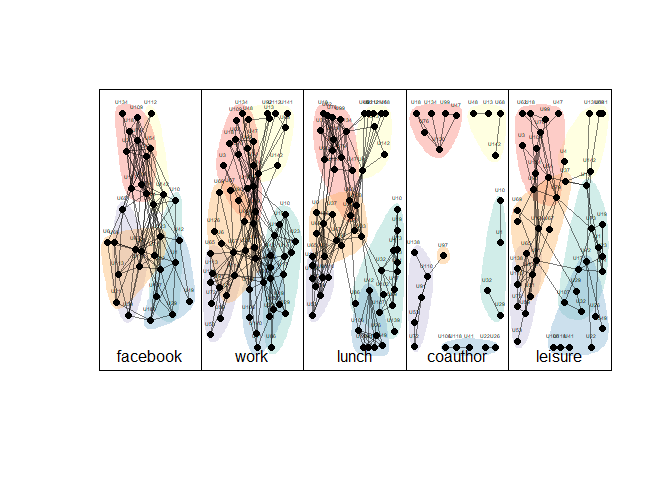
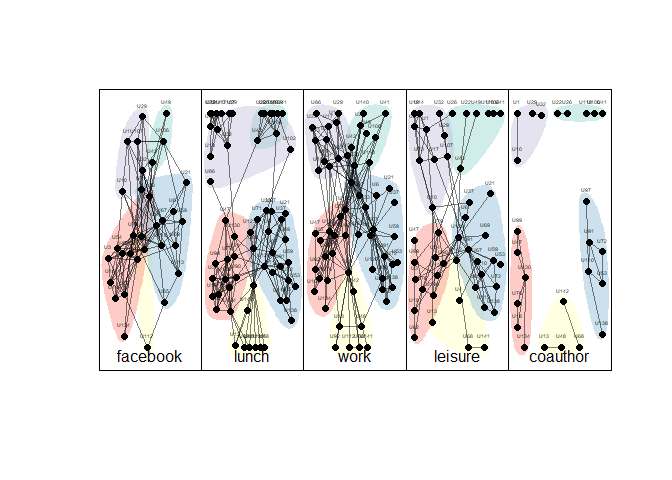
fix toc2

Changed region(s): [[0.125, 0.1875, 0.9062, 0.7812]]

diff --git a/README.md b/README.md
@@ -1,36 +1,24 @@
 Analyse de réseaux multiplexes avec R - le package multinet
 ================
 
-- <a href="#importer-et-créer-lobjet" id="toc-importer-et-créer-lobjet">1.
-  Importer et créer l’objet</a>
-  - <a href="#importer-un-objet-multigraphe"
-    id="toc-importer-un-objet-multigraphe">1.1. Importer un objet
-    multigraphe</a>
-  - <a href="#importer-des-données-au-format-csv-et-igraph"
-    id="toc-importer-des-données-au-format-csv-et-igraph">1.2. Importer des
-    données au format csv et igraph</a>
-  - <a href="#appréhender-les-objets-créés"
-    id="toc-appréhender-les-objets-créés">1.3. Appréhender les objets
-    créés</a>
-  - <a
-    href="#aligner-le-multigraphe-tous-les-sommets-dans-toutes-les-couches"
-    id="toc-aligner-le-multigraphe-tous-les-sommets-dans-toutes-les-couches">1.4.
-    “Aligner” le multigraphe (tous les sommets dans toutes les couches)</a>
-- <a href="#quelques-mesures-et-analyses"
-  id="toc-quelques-mesures-et-analyses">2. Quelques mesures et
-  analyses</a>
-  - <a href="#créer-et-étudier-les-couches-individuellemment"
-    id="toc-créer-et-étudier-les-couches-individuellemment">2.1. Créer et
-    étudier les couches individuellemment</a>
-  - <a href="#centralités-voisinage-distances"
-    id="toc-centralités-voisinage-distances">2.2. Centralités, voisinage,
-    distances</a>
-  - <a href="#comparaison-des-couches" id="toc-comparaison-des-couches">2.3.
-    Comparaison des couches</a>
-  - <a href="#détection-de-communautés"
-    id="toc-détection-de-communautés">2.4. Détection de communautés</a>
-- <a href="#visualisation" id="toc-visualisation">3. Visualisation</a>
-- <a href="#références" id="toc-références">4. Références</a>
+- [**1. Importer et créer l’objet**](#1-importer-et-créer-lobjet)
+  - [1.1. Importer un objet
+    multigraphe](#11-importer-un-objet-multigraphe)
+  - [1.2. Importer des données au format csv et
+    igraph](#12-importer-des-données-au-format-csv-et-igraph)
+  - [1.3. Appréhender les objets
+    créés](#13-appréhender-les-objets-créés)
+  - [1.4. Aligner le multigraphe (tous les sommets dans toutes les
+    couches)](#14-aligner-le-multigraphe-tous-les-sommets-dans-toutes-les-couches)
+- [**2. Quelques mesures et analyses**](#2-quelques-mesures-et-analyses)
+  - [2.1. Créer et étudier les couches
+    individuellemment](#21-créer-et-étudier-les-couches-individuellemment)
+  - [2.2. Centralités, voisinage,
+    distances](#22-centralités-voisinage-distances)
+  - [2.3. Comparaison des couches](#23-comparaison-des-couches)
+  - [2.4. Détection de communautés](#24-détection-de-communautés)
+- [**3. Visualisation**](#3-visualisation)
+- [**4. Références**](#4-références)
 
 *Paul Gourdon et Laurent Beauguitte (UMR Géographie-cités)*
 
@@ -99,7 +87,7 @@ library(multinet)
 
 net <- ml_aucs()
 layers_ml(net)
-#> [1] "facebook" "work"     "lunch"    "coauthor" "leisure"
+#> [1] "facebook" "lunch"    "work"     "leisure"  "coauthor"
 net
 #> ml-net[61, 5, 224, 620 (620,0)]
 ```
@@ -172,7 +160,7 @@ visualisation sont évoquées à la fin de ce tutoriel.
 plot(net, vertex.labels = NA)
 ```
 
-![](output/unnamed-chunk-4-1.png)
+![](output/unnamed-chunk-4-1.png)<!-- -->
 
 ``` r
 
@@ -180,7 +168,7 @@ plot(net, vertex.labels = NA)
 plot(clus, vertex.labels = NA) 
 ```
 
-![](output/unnamed-chunk-4-2.png)
+![](output/unnamed-chunk-4-2.png)<!-- -->
 
 Un moyen sans doute plus sûr est d’utiliser la fonction `summary().`
 
@@ -225,7 +213,7 @@ Les colonnes indiquent :
 
 - le diamètre de la plus grande composante connexe (`dia`).
 
-### 1.4. “Aligner” le multigraphe (tous les sommets dans toutes les couches)
+### 1.4. Aligner le multigraphe (tous les sommets dans toutes les couches)
 
 Comme le montrent les tableaux précédents, tous les acteurs ne sont pas
 présents dans chaque couche.
@@ -284,7 +272,7 @@ l3 <- layout_multiforce_ml(clus_aligned, w_inter = 1,
 plot(clus_aligned, layout = l3, grid = c(1, 3), vertex.labels = "")
 ```
 
-![](output/unnamed-chunk-7-1.png)
+![](output/unnamed-chunk-7-1.png)<!-- -->
 
 Si la fonction `summary` renvoie les mêmes résultats que le paramètre
 `aligned` soit `TRUE` ou `FALSE`, les fonctions de comparaison entre les
@@ -475,9 +463,9 @@ c’est-à-dire non-dominés.
 # calcul des non-dominated path lengths entre deux sommets 
 subset(distance_ml(net,from = "U54",to = "U41", method="multiplex"), 
        lunch == 1 & facebook == 2 | work == 3)
-#>    from  to facebook work lunch coauthor leisure
-#> 3   U54 U41        2    0     1        0       0
-#> 10  U54 U41        0    3     0        0       0
+#>    from  to facebook lunch work leisure coauthor
+#> 1   U54 U41        2     1    0       0        0
+#> 15  U54 U41        0     0    3       0        0
 ```
 
 L’exemple ci-dessus montre 2 chemins non-dominés entre `U54` et `U41` de
@@ -505,12 +493,12 @@ multiplexe (selon la pondération affectée aux liens dans les couches).
 # comprenant uniquement 2 liens dans la couche facebook
 subset(distance_ml(net,from = "U54",to = "U41", method="multiplex"),
        facebook == 2 )
-#>    from  to facebook work lunch coauthor leisure
-#> 3   U54 U41        2    0     1        0       0
-#> 5   U54 U41        2    1     0        1       0
-#> 20  U54 U41        2    0     0        3       0
-#> 24  U54 U41        2    0     0        1       1
-#> 25  U54 U41        2    0     0        0       2
+#>    from  to facebook lunch work leisure coauthor
+#> 1   U54 U41        2     1    0       0        0
+#> 5   U54 U41        2     0    1       0        1
+#> 21  U54 U41        2     0    0       2        0
+#> 23  U54 U41        2     0    0       1        1
+#> 29  U54 U41        2     0    0       0        3
 ```
 
 ### 2.3. Comparaison des couches
@@ -529,12 +517,12 @@ couches sont dissemblables).
 ``` r
 #comparaison distribution degré
 layer_comparison_ml(net, method = "jeffrey.degree")
-#>           facebook      work     lunch  coauthor   leisure
-#> facebook 0.0000000 0.7106788 0.4207678 2.0214010 1.0177980
-#> work     0.7106788 0.0000000 0.8372414 0.5917494 0.2118452
-#> lunch    0.4207678 0.8372414 0.0000000 2.8966530 1.3288250
-#> coauthor 2.0214010 0.5917494 2.8966530 0.0000000 0.4521076
-#> leisure  1.0177980 0.2118452 1.3288250 0.4521076 0.0000000
+#>           facebook     lunch      work   leisure  coauthor
+#> facebook 0.0000000 0.4207678 0.7106788 1.0177980 2.0214010
+#> lunch    0.4207678 0.0000000 0.8372414 1.3288250 2.8966530
+#> work     0.7106788 0.8372414 0.0000000 0.2118452 0.5917494
+#> leisure  1.0177980 1.3288250 0.2118452 0.0000000 0.4521076
+#> coauthor 2.0214010 2.8966530 0.5917494 0.4521076 0.0000000
 ```
 
 Ainsi, dans cet exemple la distribution des degrés dans la couche `work`
@@ -548,12 +536,12 @@ alignée du réseau multiplexe, on ajoute des sommets isolés de degré 0.
 ``` r
 #comparaison distribution degré sur la version alignée du réseau net
 layer_comparison_ml(net_aligned, method = "jeffrey.degree")
-#>           facebook     lunch  coauthor   leisure      work
-#> facebook 0.0000000 1.4143833 0.4799452 0.2754121 0.1817213
-#> lunch    1.4143833 0.0000000 3.4654016 1.6748765 0.3830254
-#> coauthor 0.4799452 3.4654016 0.0000000 0.7262190 1.3307614
-#> leisure  0.2754121 1.6748765 0.7262190 0.0000000 0.2961610
-#> work     0.1817213 0.3830254 1.3307614 0.2961610 0.0000000
+#>               work     lunch  coauthor   leisure  facebook
+#> work     0.0000000 0.3830254 1.3307614 0.2961610 0.1817213
+#> lunch    0.3830254 0.0000000 3.4654016 1.6748765 1.4143833
+#> coauthor 1.3307614 3.4654016 0.0000000 0.7262190 0.4799452
+#> leisure  0.2961610 1.6748765 0.7262190 0.0000000 0.2754121
+#> facebook 0.1817213 1.4143833 0.4799452 0.2754121 0.0000000
 ```
 
 - Corrélation entre les degrés :
@@ -610,12 +598,12 @@ matrice est remplie de 1.*
 ``` r
 #mêmes liens entre mêmes paires de sommets
 layer_comparison_ml(net, method="jaccard.edges")
-#>            facebook       work      lunch   coauthor   leisure
-#> facebook 1.00000000 0.18656716 0.17843866 0.05839416 0.1584699
-#> work     0.18656716 1.00000000 0.33910035 0.09137056 0.2051282
-#> lunch    0.17843866 0.33910035 1.00000000 0.06467662 0.2772727
-#> coauthor 0.05839416 0.09137056 0.06467662 1.00000000 0.1010101
-#> leisure  0.15846995 0.20512821 0.27727273 0.10101010 1.0000000
+#>            facebook      lunch       work   leisure   coauthor
+#> facebook 1.00000000 0.17843866 0.18656716 0.1584699 0.05839416
+#> lunch    0.17843866 1.00000000 0.33910035 0.2772727 0.06467662
+#> work     0.18656716 0.33910035 1.00000000 0.2051282 0.09137056
+#> leisure  0.15846995 0.27727273 0.20512821 1.0000000 0.10101010
+#> coauthor 0.05839416 0.06467662 0.09137056 0.1010101 1.00000000
 ```
 
 Ici les deux couches possédant le plus de liens en commun sont les
@@ -628,12 +616,12 @@ mais sur les triangles (triades).
 ``` r
 #mêmes triangles entre mêmes ensemble de 3 sommets
 layer_comparison_ml(net, method="jaccard.triangles")
-#>             facebook        work       lunch    coauthor    leisure
-#> facebook 1.000000000 0.046448087 0.069053708 0.005813953 0.02369668
-#> work     0.046448087 1.000000000 0.151741294 0.009259259 0.07407407
-#> lunch    0.069053708 0.151741294 1.000000000 0.007968127 0.10861423
-#> coauthor 0.005813953 0.009259259 0.007968127 1.000000000 0.00000000
-#> leisure  0.023696682 0.074074074 0.108614232 0.000000000 1.00000000
+#>             facebook       lunch        work    leisure    coauthor
+#> facebook 1.000000000 0.069053708 0.046448087 0.02369668 0.005813953
+#> lunch    0.069053708 1.000000000 0.151741294 0.10861423 0.007968127
+#> work     0.046448087 0.151741294 1.000000000 0.07407407 0.009259259
+#> leisure  0.023696682 0.108614232 0.074074074 1.00000000 0.000000000
+#> coauthor 0.005813953 0.007968127 0.009259259 0.00000000 1.000000000
 ```
 
 ### 2.4. Détection de communautés
@@ -661,36 +649,36 @@ com4 <- infomap_ml(net)
 
 #crée dataframe : sommet, couche, communauté
 head(com2, 6) 
-#>   actor    layer cid
-#> 1    U4 facebook   0
-#> 2    U4     work   0
-#> 3    U4    lunch   0
-#> 4   U71 facebook   0
-#> 5   U71     work   0
-#> 6   U71    lunch   0
+#>   actor   layer cid
+#> 1   U91   lunch   0
+#> 2   U91    work   0
+#> 3   U91 leisure   0
+#> 4   U65   lunch   0
+#> 5   U65    work   0
+#> 6   U65 leisure   0
 
 #nb communautés et taille selon l'algo choisi
 table(com1$cid)
 #> 
 #>  0  1  2  3  4 
-#> 44 37 60 53 30
+#> 28 44 40 59 53
 #table(com2$cid)
 #table(com3$cid)
 table(com4$cid)
 #> 
-#>  0  1  2  3  4  5 
-#> 44 28 34 53 30 35
+#>  0  1  2  3  4 
+#> 30 28 44 56 66
 
 #indicateurs
 modularity_ml(net, com1, gamma = 1, omega = 1)
-#> [1] 0.5132803
+#> [1] 0.5238051
 #
 
 #comparaison entre deux partitions 1 - 4
 nmi_ml(net, com1, com4)
-#> [1] 0.9171475
+#> [1] 0.9108307
 omega_index_ml(net, com1, com4)
-#> [1] 0.8579611
+#> [1] 0.8933498
 ```
 
 Trois indicateurs peuvent être calculés pour évaluer la qualité des
@@ -707,7 +695,7 @@ Il est possible de visualiser les communautés obtenues.
 plot(net, vertex.labels.cex=.3, com=com4)
 ```
 
-![](output/unnamed-chunk-22-1.png)
+![](output/unnamed-chunk-22-1.png)<!-- -->
 
 On peut choisir de visualiser le réseau “aligné” afin que les sommets
 soient positionnés de la même façon sur toutes les couches. La
@@ -725,7 +713,7 @@ l4 <- layout_multiforce_ml(net_aligned, w_inter = 1,
 plot(net_aligned, vertex.labels.cex=.3, com=com4, layout = l4)
 ```
 
-![](output/unnamed-chunk-23-1.png)
+![](output/unnamed-chunk-23-1.png)<!-- -->
 
 ## 3. Visualisation
 
@@ -750,13 +738,13 @@ taille des liens selon leur poids.
 ``` r
 # créer une couche valuée à partir de work, facebook et lunch
 layers_ml(net)
-#> [1] "facebook" "work"     "lunch"    "coauthor" "leisure"
+#> [1] "facebook" "lunch"    "work"     "leisure"  "coauthor"
 
 flatten_ml(net, new.layer = "wfl", layers = c("work", "facebook", "lunch"),
                    method = "weighted", force.directed = FALSE, all.actors = FALSE)
 
 layers_ml(net)
-#> [1] "facebook" "work"     "lunch"    "coauthor" "leisure"  "wfl"
+#> [1] "facebook" "lunch"    "work"     "leisure"  "coauthor" "wfl"
 
 attributes_ml(net, target = "edge")
 #>   layer   name   type
@@ -784,7 +772,7 @@ plot(net,                        #objet mulinet
      show.layer.names = FALSE)   #afficher le nom de la couche
 ```
 
-![](output/unnamed-chunk-24-1.png)
+![](output/unnamed-chunk-24-1.png)<!-- -->
 
 Dès lors que l’on souhaite visualiser des variables attributaires, les
 solutions proposées sont selon nous complexes et peu pratiques car il
